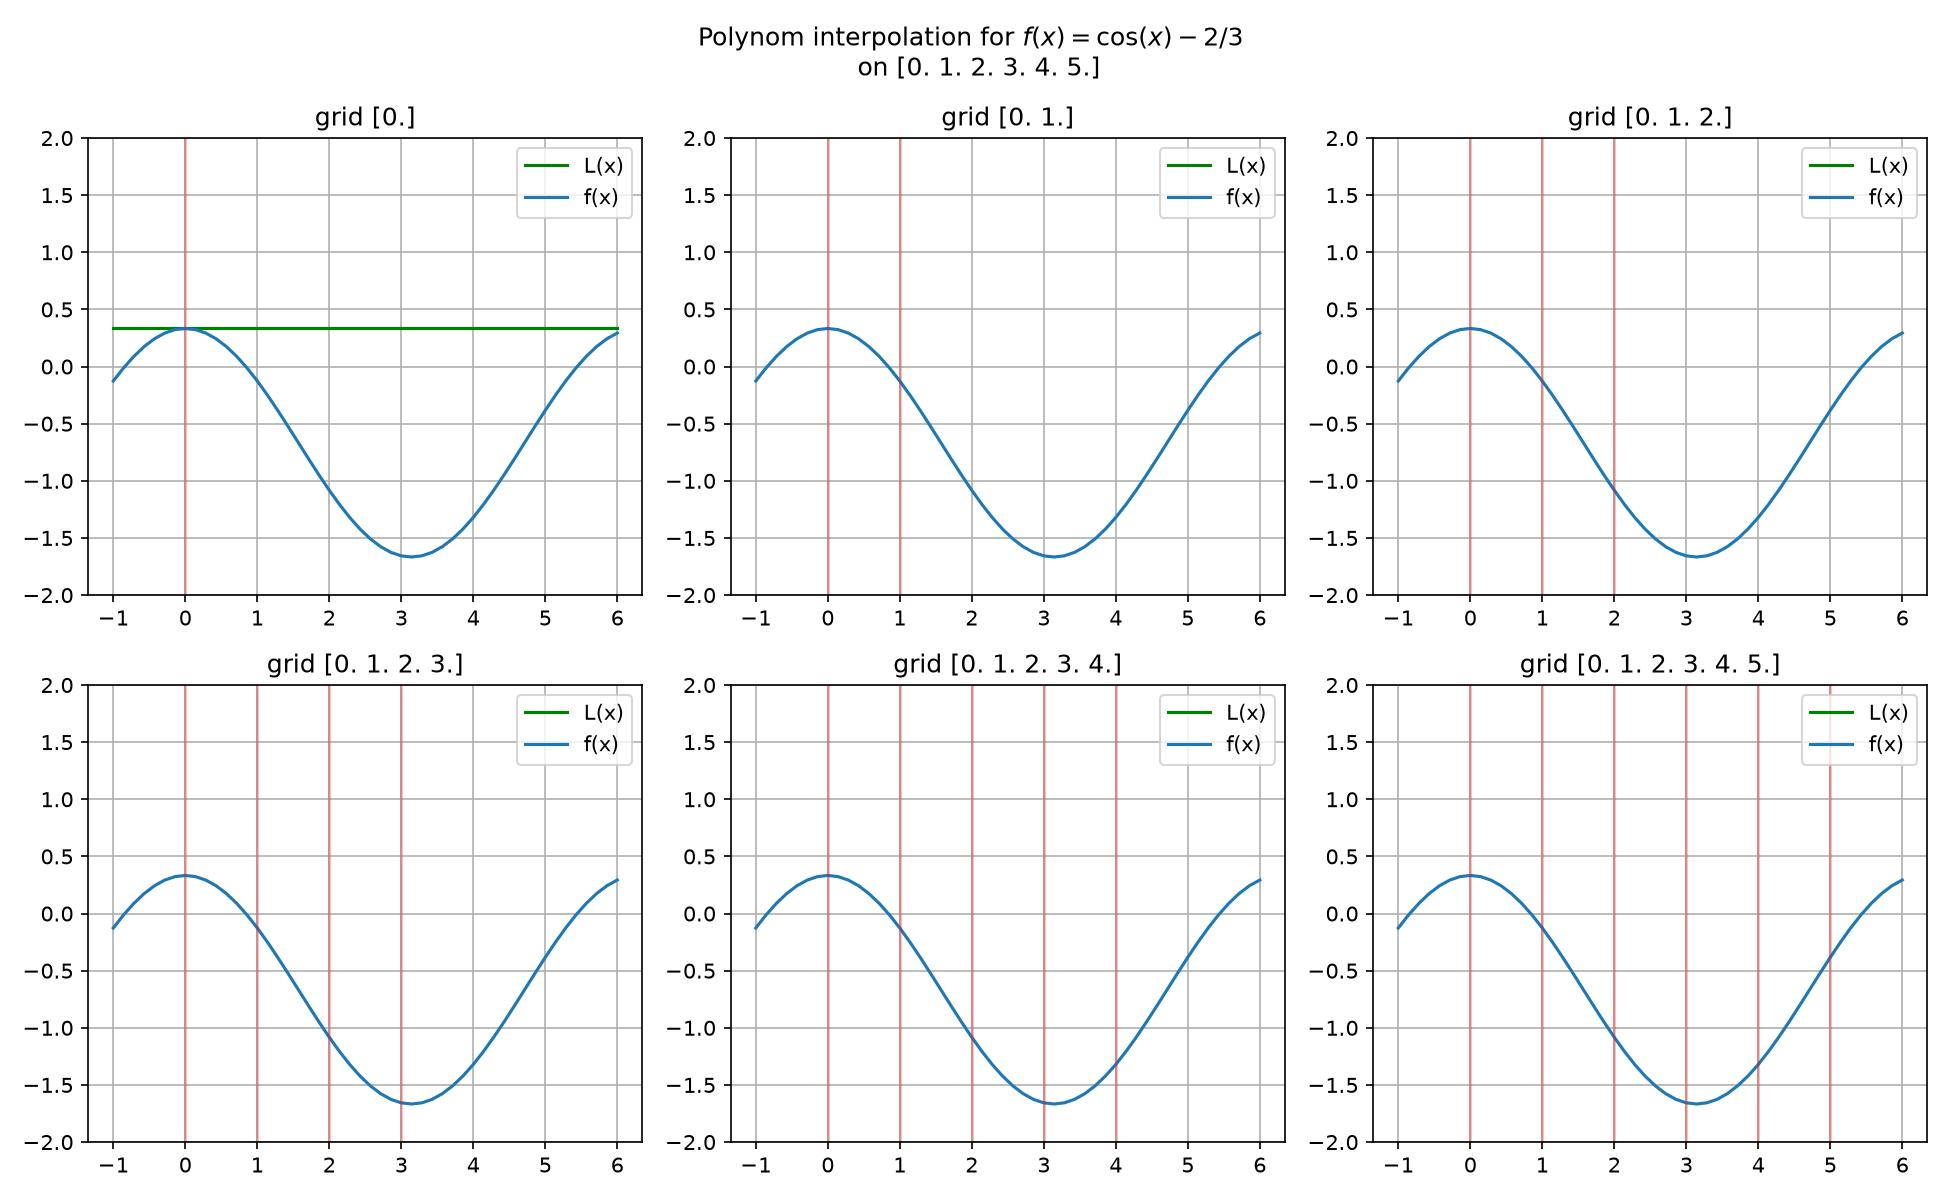
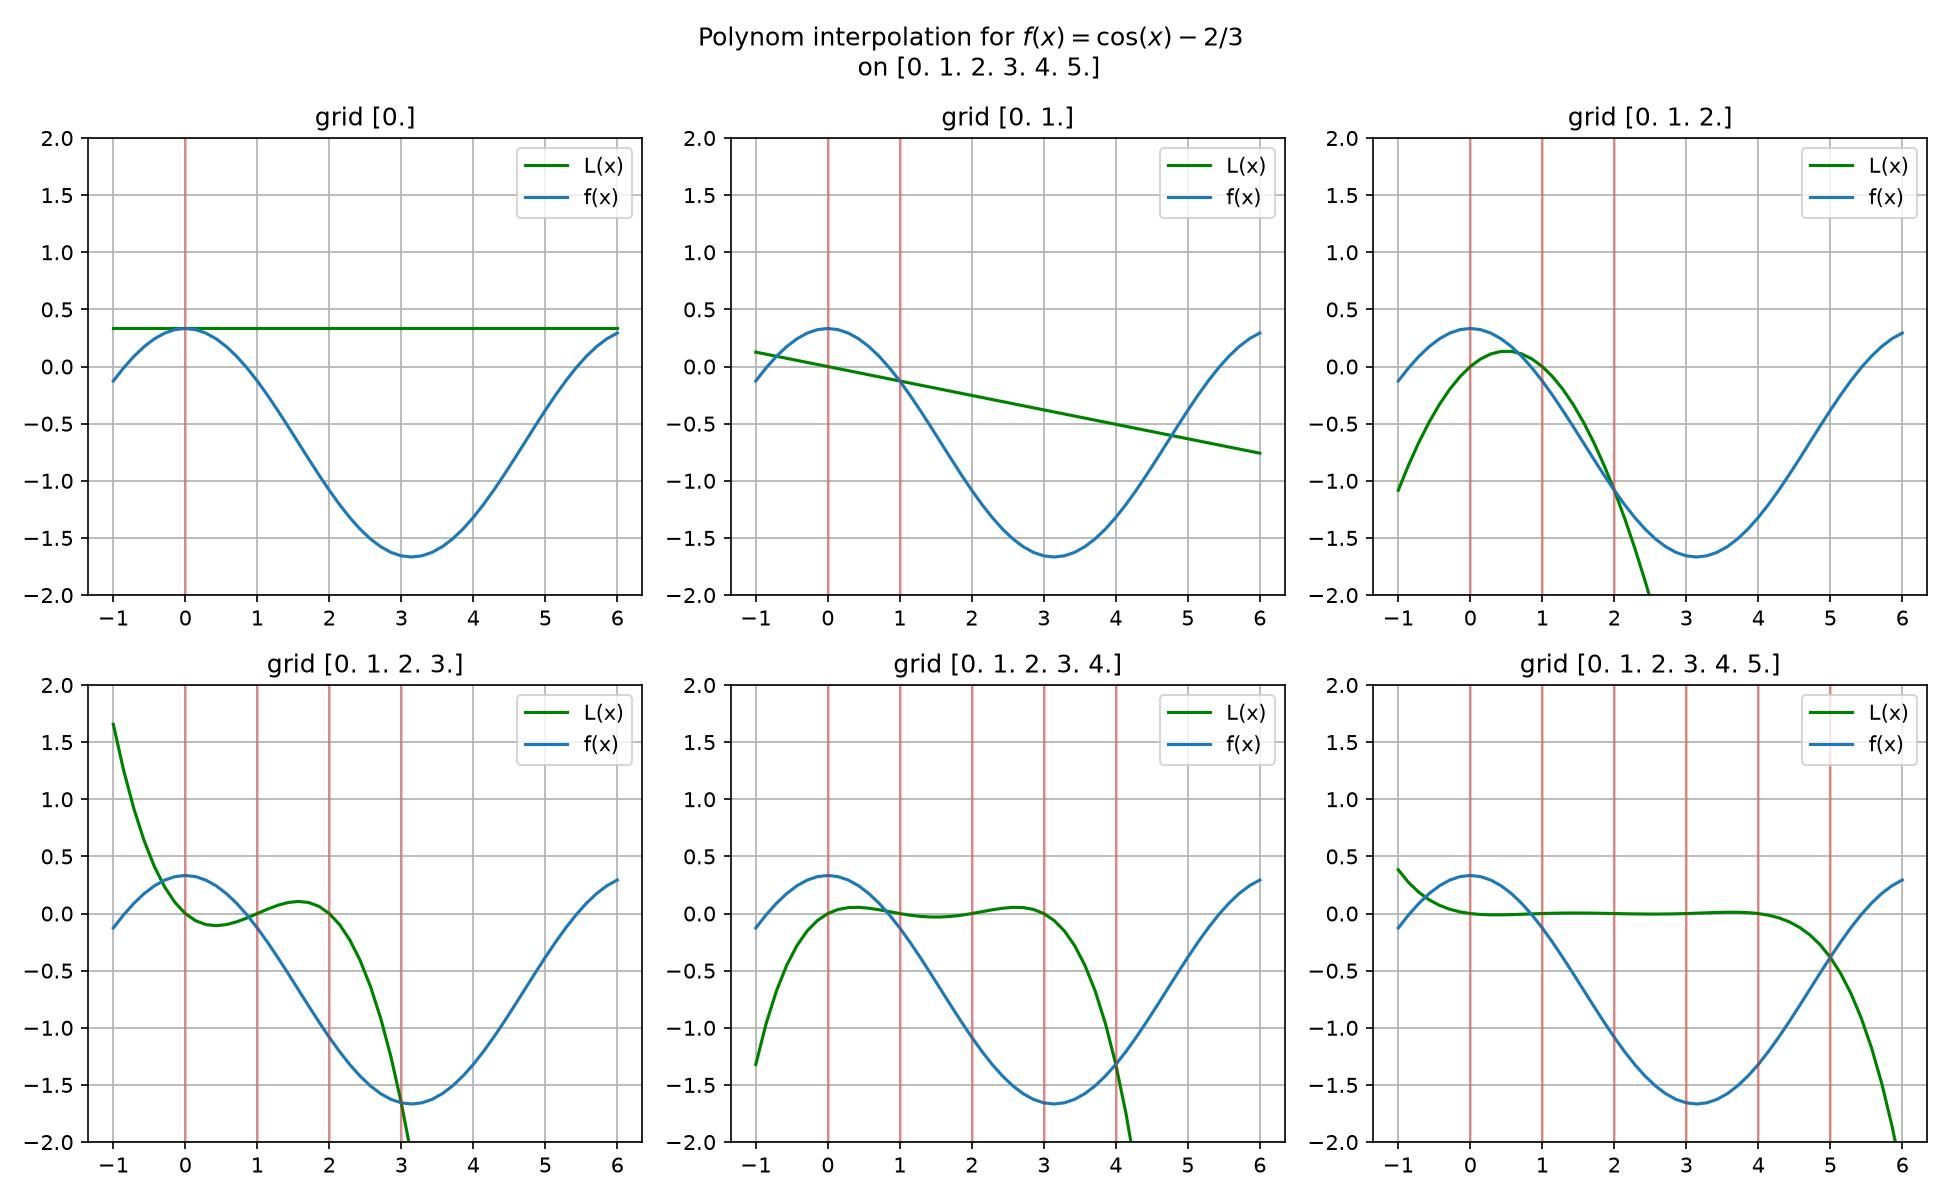
l chk 2

diff --git a/qs.py b/qs.py
@@ -536,7 +536,8 @@ def lagrange(x,grid,k):
     """
     x_k = grid[k]
     grid_k = np.delete(grid,k)
-    l_nk = w_n(x,grid_k) / w_n_prime(x_k,grid)
+    denom = w_n_prime(x_k,grid)
+    l_nk = np.divide(w_n(x,grid_k),denom, out = np.zeros_like(x,dtype=float), where = denom!=0)
     return l_nk
 
 def lagrange_interpolate(f,x,grid):
@@ -577,11 +578,11 @@ def plot_lagrange(n=6):
     plt.show()
     return 1
 
-plot_lagrange(6)
-#grid = np.arange(4)
-#x = np.linspace(-2,2)
-##plt.plot(x,lagrange_interpolate(f,x,grid),label='L(x)')
+#plot_lagrange(6)
+grid = np.arange(5)
+x = np.linspace(-2,5)
+plt.plot(x,lagrange(x,grid,3),label='L(x)')
 #plt.plot(x,f(x),label='f(x)')
-#plt.legend()
-#plt.grid()
-#plt.show()
+plt.legend()
+plt.grid()
+plt.show()
